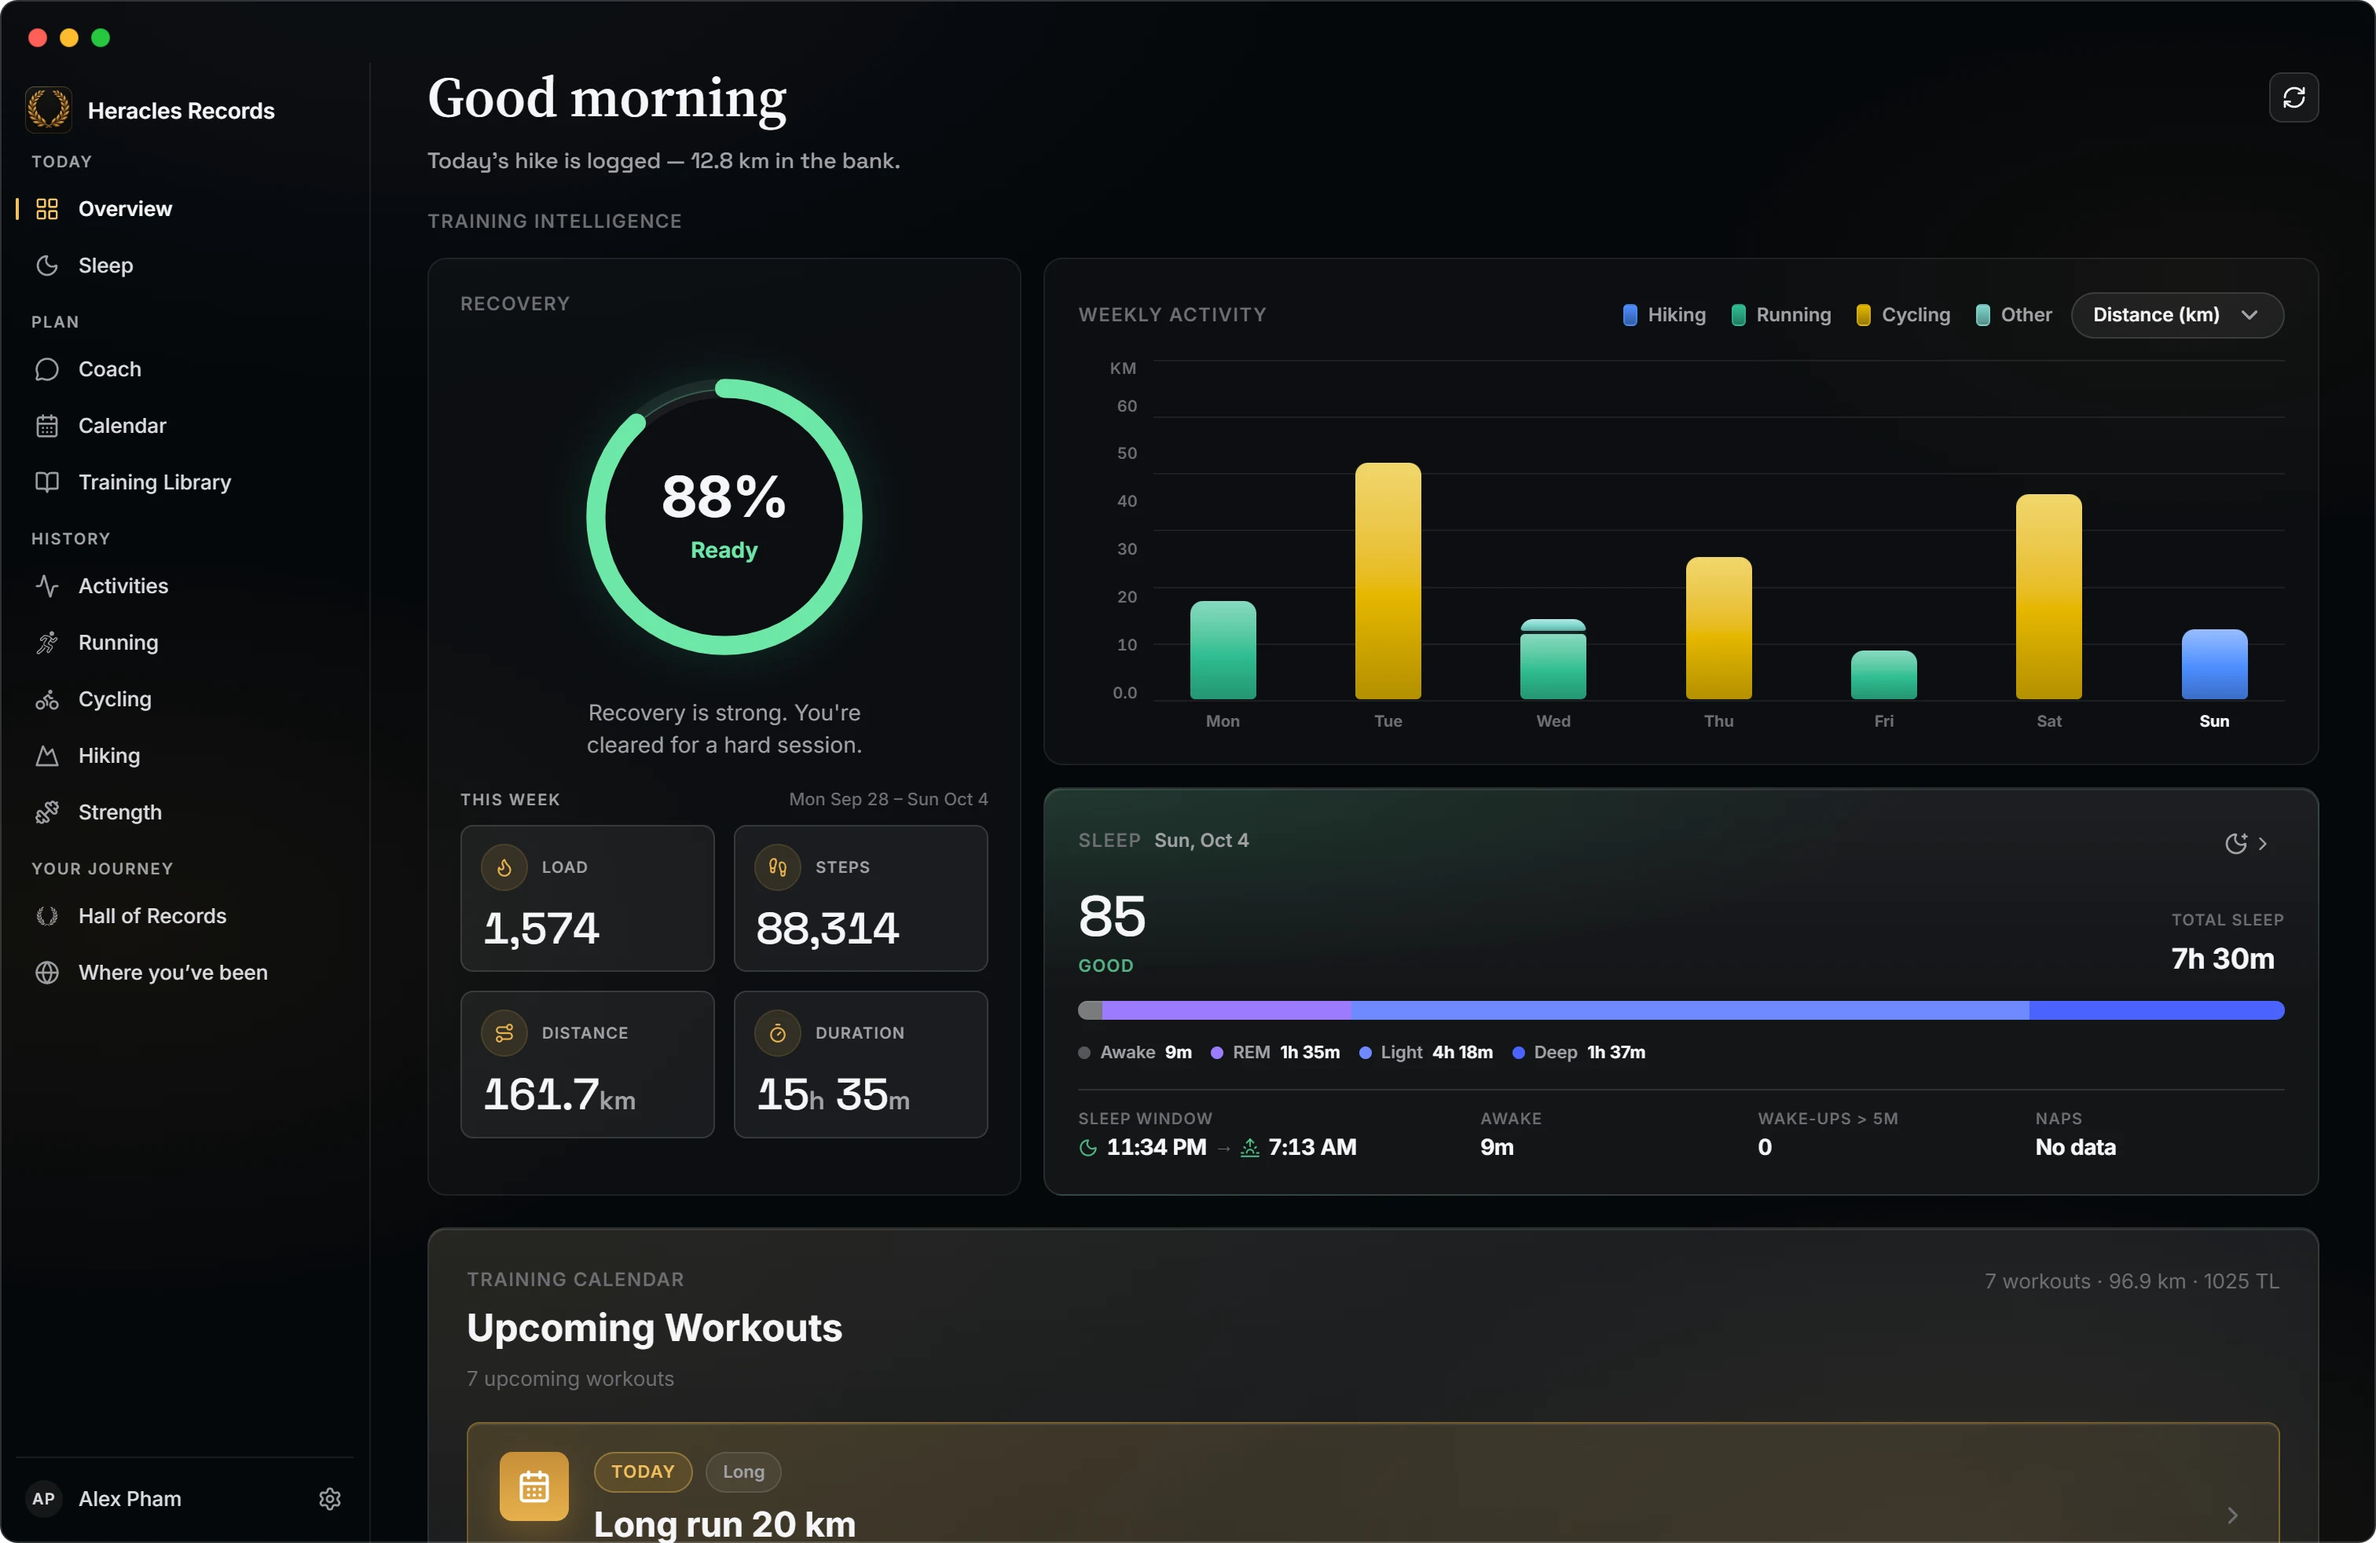
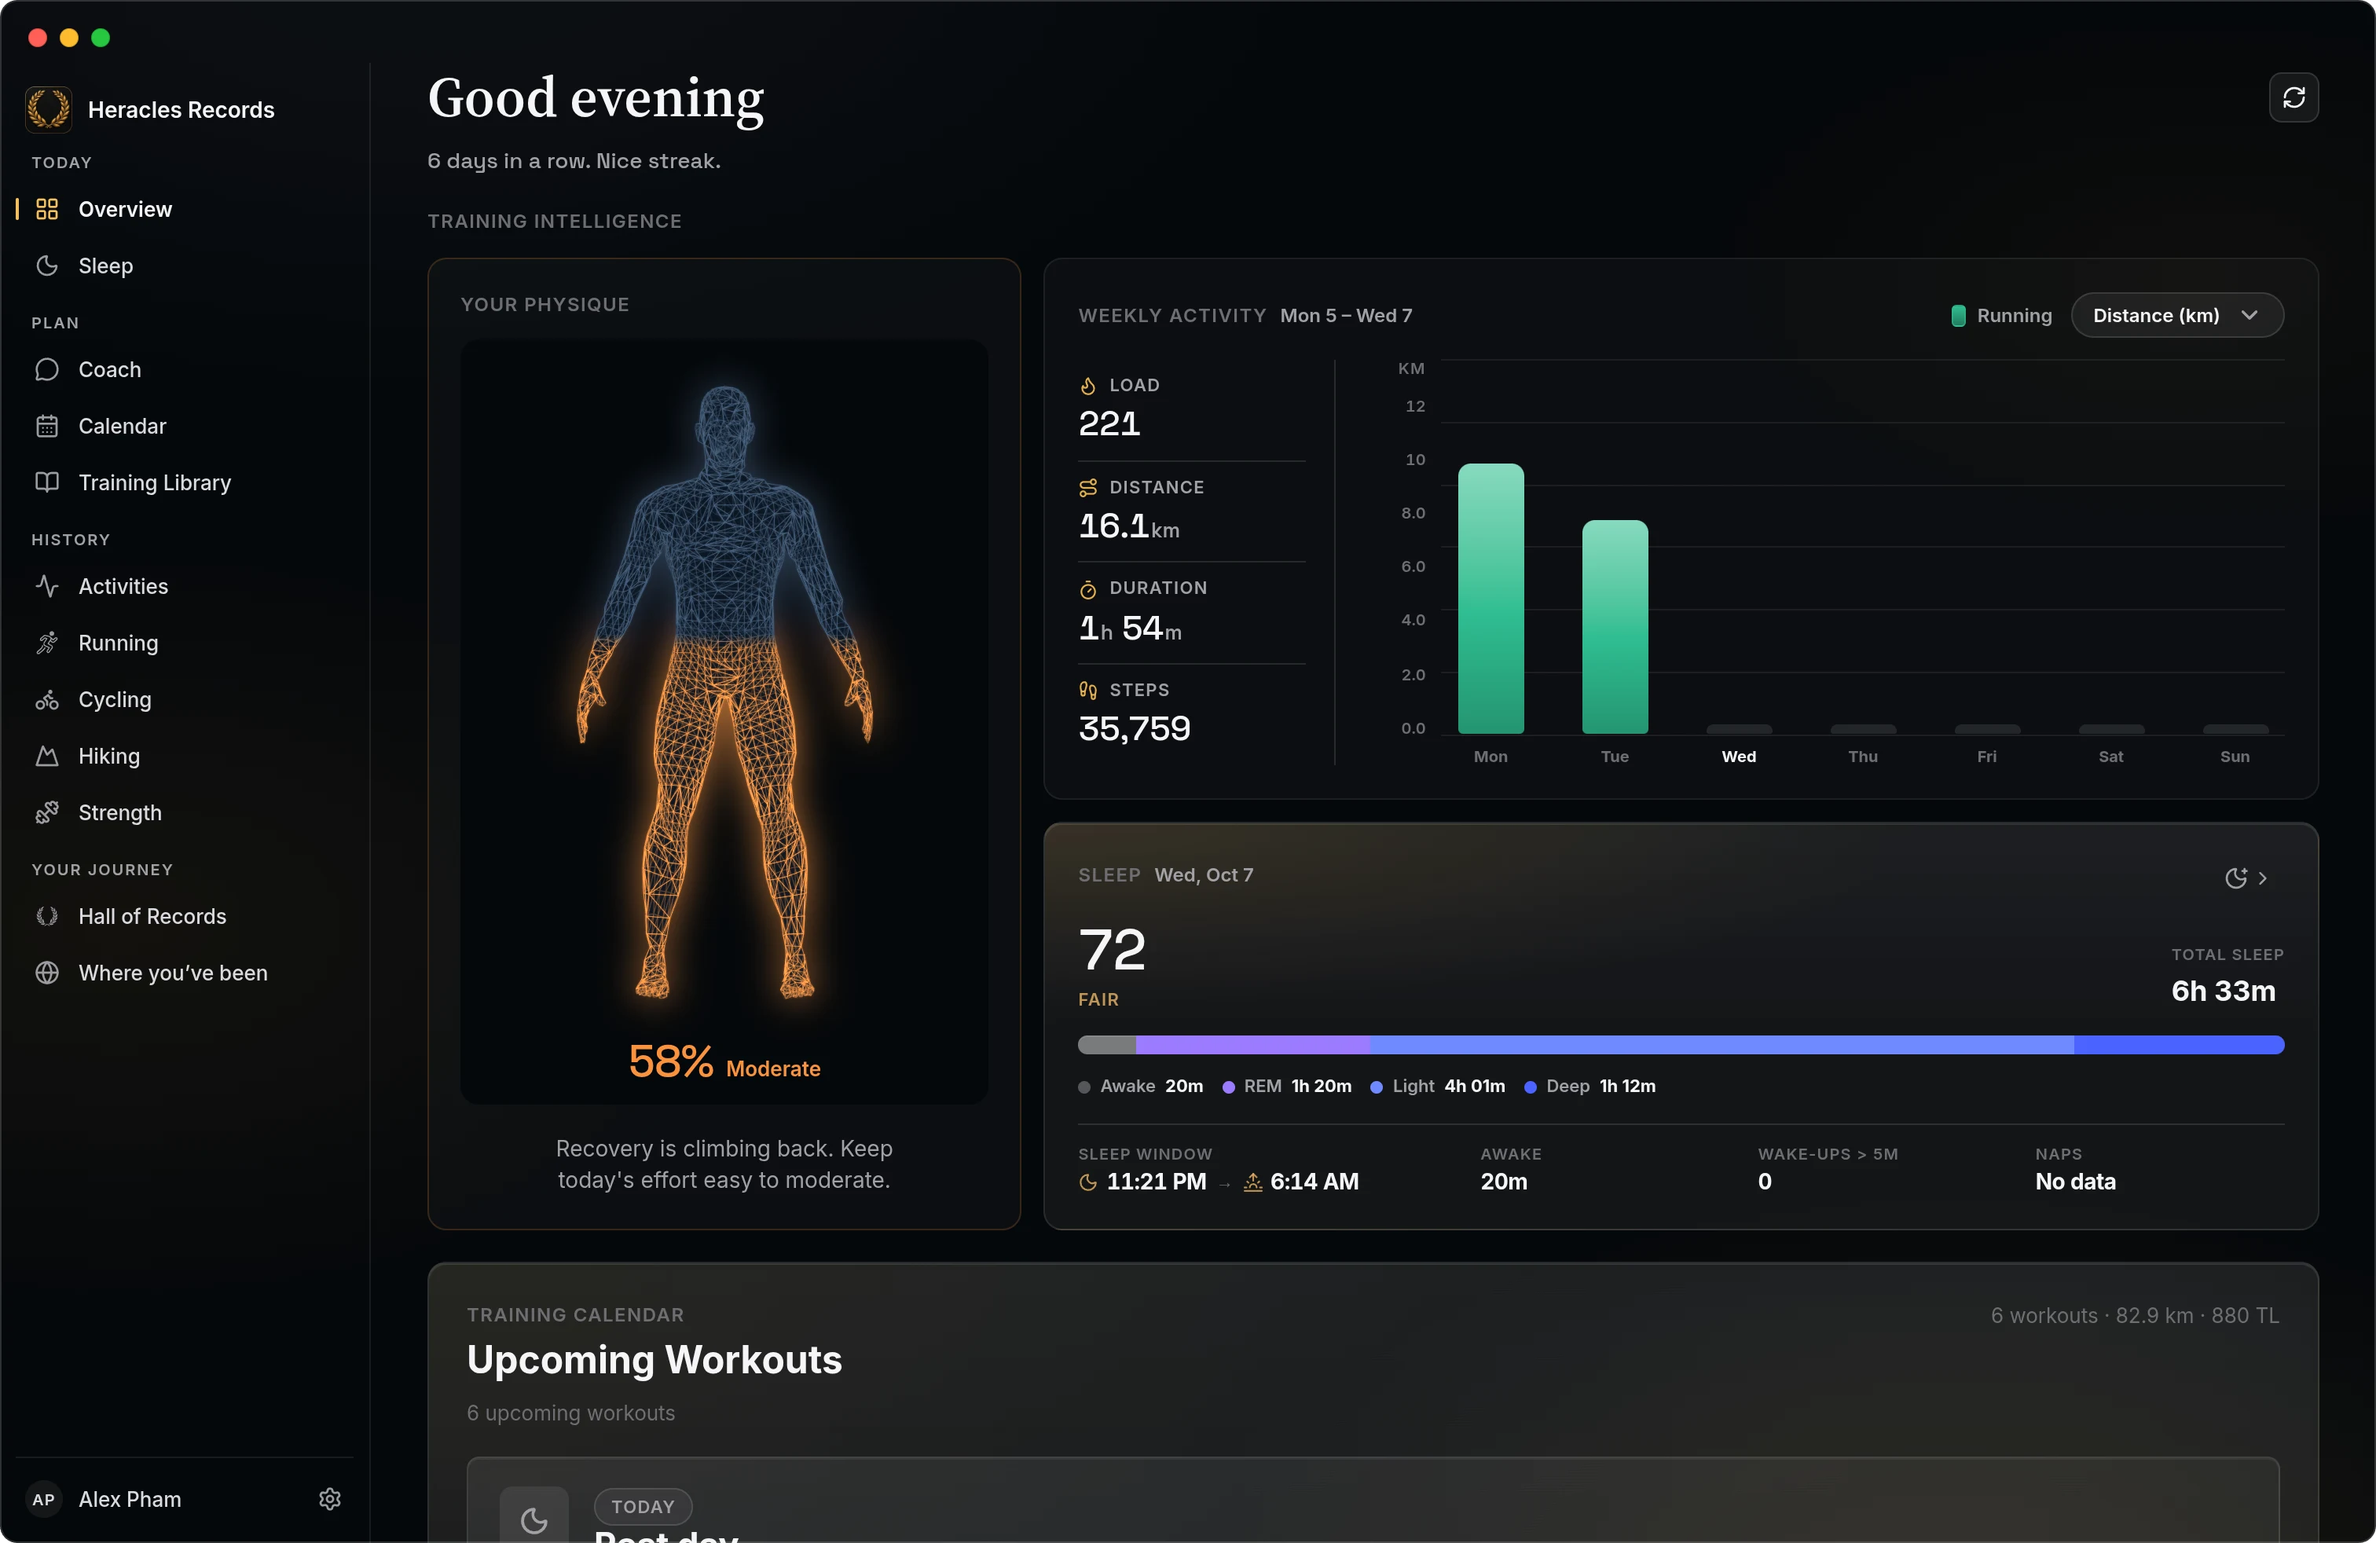
chore: release v1.0.2
Overview's screenshots (01, 19, 20) reshot for the body figure, and the
home and download link-preview cards re-rendered from them.

diff --git a/scripts/screenshots/demoHandlers.ts b/scripts/screenshots/demoHandlers.ts
@@ -111,7 +111,7 @@ function dashboard(): TrainingHubDashboard {
   return {
     racePredictor: {
       staminaLevel: 72,
-      recoveryPct: 88,
+      recoveryPct: 58,
       aerobicEnduranceScore: 78,
       lactateThresholdCapacityScore: 71,
       anaerobicEnduranceScore: 64,
@@ -126,7 +126,7 @@ function dashboard(): TrainingHubDashboard {
       ]
     },
     rhr: 50,
-    recoveryPct: 88,
+    recoveryPct: 58,
     recoveryState: 3,
     fullRecoveryHours: 6,
     fitnessMaxHr: 188,

diff --git a/CHANGELOG.md b/CHANGELOG.md
@@ -7,6 +7,16 @@ and this project adheres to [Semantic Versioning](https://semver.org/spec/v2.0.0
 
 ## [Unreleased]
 
+## [1.0.2] - 2026-10-07
+
+### What's new
+
+- **Overview** — "Your physique" replaces the recovery ring: a wireframe of your body, drawn from your COROS height and weight and lit up to today's recovery. Weekly Activity shows the week's totals beside its chart.
+
+### Fixed
+
+- Improve app performance and stability.
+
 ## [1.0.1] - 2026-10-06
 
 ### What's new
